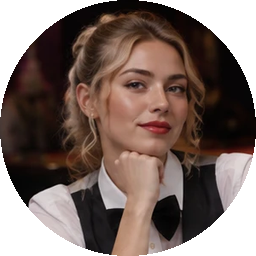
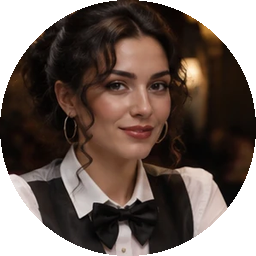
Dealer personalities, memory and reactions; table transitions
- Eight dealers with their own characters and lines (Victoria, Sofia, Marcus,
  Mei, Fiona, Viktor, Jamal, Kenji); they remember returning players
- Portrait body language: breathing, nods, celebrations on big wins
- Scenes fade in; tables settle in with a sit-down zoom

Claude-Session: https://claude.ai/code/session_01WpdBdNdrLvMEaYfdSwimFX

diff --git a/games/casino/src/ui/dealer.ts b/games/casino/src/ui/dealer.ts
@@ -1,6 +1,6 @@
 import Phaser from 'phaser';
 import { popIn } from '@tgs/kit';
-import { GOLD } from '../services.ts';
+import { GOLD, save } from '../services.ts';
 import { text } from './common.ts';
 
 export type DealerMood = 'hello' | 'bets' | 'win' | 'bigwin' | 'lose' | 'push' | 'special';
@@ -8,29 +8,137 @@ export type DealerMood = 'hello' | 'bets' | 'win' | 'bigwin' | 'lose' | 'push' |
 interface DealerInfo {
   key: string;
   name: string;
-  lines: Record<DealerMood, string[]>;
+  /** Who they are, shown under the name when you sit down. */
+  style: string;
+  lines: Record<DealerMood | 'back', string[]>;
 }
 
-const BASE: Record<DealerMood, string[]> = {
-  hello: ['Welcome to my table!', 'Good to see you!', 'Pull up a seat.'],
-  bets: ['Place your bets.', 'Bets, please.', 'Good luck this hand!'],
-  win: ['Nicely played!', 'Winner!', "That's a good one.", 'Paying you out.'],
-  bigwin: ['Wow, big winner!', 'The table is hot!', "Now that's a hand!"],
-  lose: ["Next one's yours.", 'So close.', 'Shake it off.', 'The cards will turn.'],
-  push: ['A push. Your bet stays.', 'Even this time.'],
-  special: ['Ooh!', 'Look at that!'],
-};
-
-/** Each game has its own dealer with a few personal lines. */
+/**
+ * Eight dealers, each with a personality: their own greetings, their own way of
+ * calling wins and losses, and a signature line for the big moments. `{n}` is
+ * the visit count, used by dealers who remember returning players.
+ */
 const DEALERS: Record<string, DealerInfo> = {
-  blackjack: { key: 'dealer-sofia', name: 'Sofia', lines: { ...BASE, special: ['Blackjack! Beautiful.', 'Twenty-one!'] } },
-  roulette: { key: 'dealer-marco', name: 'Marco', lines: { ...BASE, bets: ['Place your bets!', 'No more bets soon...'], special: ['Straight up! Lovely.'] } },
-  baccarat: { key: 'dealer-mei', name: 'Mei', lines: { ...BASE, special: ['A natural!', 'Banker is on a run.'] } },
-  threecard: { key: 'dealer-fiona', name: 'Fiona', lines: { ...BASE, special: ['Ante bonus for you!', 'Pair Plus pays!'] } },
-  war: { key: 'dealer-jamal', name: 'Jamal', lines: { ...BASE, special: ["It's war!", 'Brave move.'] } },
-  craps: { key: 'dealer-elena', name: 'Elena', lines: { ...BASE, bets: ['Shooter coming out!', 'Bets down, dice up.'], special: ['Winner, winner!', 'Seven out.'] } },
-  uth: { key: 'dealer-kenji', name: 'Kenji', lines: { ...BASE, special: ['Big blind bonus!', 'Trips pays!'] } },
-  holdem: { key: 'dealer-victor', name: 'Victor', lines: { ...BASE, bets: ['Shuffle up and deal.', 'Blinds are in.'], special: ['Ship it!', 'What a pot!'] } },
+  blackjack: {
+    key: 'dealer-victoria',
+    name: 'Victoria',
+    style: 'Elegant and exacting · runs the blackjack pit',
+    lines: {
+      hello: ['Good evening. Take a seat.', 'Welcome. The minimum is posted.', 'Shall we begin?'],
+      back: ['Back again. I admire persistence.', 'Ah, you returned. Visit {n}, I believe.'],
+      bets: ['Bets, please.', 'Place your wagers.', 'Whenever you are ready.'],
+      win: ['Well played.', 'Correctly done.', 'The house pays. This time.'],
+      bigwin: ['Impressive. Truly.', 'I will remember that hand.'],
+      lose: ['The house thanks you.', 'Unfortunate.', 'Discipline wins in the end.'],
+      push: ['A push. Nobody wins.', 'Even. How tidy.'],
+      special: ['Blackjack. Exquisite.', 'Twenty-one. Elegant.'],
+    },
+  },
+  roulette: {
+    key: 'dealer-sofia',
+    name: 'Sofia',
+    style: 'Playful and competitive · the face of the roulette room',
+    lines: {
+      hello: ['Ciao! Ready to spin?', 'Ooh, a new challenger!', 'Feeling lucky tonight?'],
+      back: ['You came back! Visit {n}, who is counting? Me.', 'My favourite player returns!'],
+      bets: ['Place your bets! I dare you.', 'Red or black? Choose wisely!', 'No more bets soon!'],
+      win: ['Hey! You beat my wheel!', 'Okay, okay, you win this one.', 'Lucky, lucky!'],
+      bigwin: ["You're on fire! Stop it!", 'Now you are showing off!'],
+      lose: ['The wheel likes me today!', 'Ha! Try again?', 'Almost! Spin it back?'],
+      push: ['Nobody wins? Boring!', 'A draw. Again!'],
+      special: ['Straight up! Bravissimo!', 'Right on the number!'],
+    },
+  },
+  holdem: {
+    key: 'dealer-marcus',
+    name: 'Marcus',
+    style: 'Friendly and energetic · remembers every regular',
+    lines: {
+      hello: ['Hey hey! Welcome to the poker room!', 'Great to have you, pull up a chair!'],
+      back: ['Welcome back, friend! Visit number {n}!', 'There they are! Good to see you again!'],
+      bets: ['Shuffle up and deal!', 'Blinds are in, here we go!', 'Cards in the air!'],
+      win: ['Ship it! Nice pot!', 'Way to go!', "That's how it's done!"],
+      bigwin: ['WHAT a hand! Unbelievable!', 'Somebody call the cameras!'],
+      lose: ['Shake it off, next hand!', "You'll get 'em next time!", 'Tough beat, buddy.'],
+      push: ['Split pot! Everybody eats!'],
+      special: ['What a pot!', 'Big hand, big hand!'],
+    },
+  },
+  baccarat: {
+    key: 'dealer-mei',
+    name: 'Mei',
+    style: 'Calm and gracious · the baccarat salon',
+    lines: {
+      hello: ['Welcome to the salon.', 'Please, be comfortable.', 'Good fortune tonight.'],
+      back: ['Welcome back. Visit {n}. The shoe remembers you.', 'A pleasure to see you again.'],
+      bets: ['Player, Banker, or Tie?', 'Your bets, please.', 'The shoe is ready.'],
+      win: ['Congratulations.', 'A graceful win.', 'Fortune smiles.'],
+      bigwin: ['A remarkable coup.', 'Wonderful. Truly.'],
+      lose: ['The next coup awaits.', 'Patience brings luck.', 'The tide turns.'],
+      push: ['A tie. Bets remain.'],
+      special: ['A natural.', 'Banker continues the run.'],
+    },
+  },
+  threecard: {
+    key: 'dealer-fiona',
+    name: 'Fiona',
+    style: 'Cheerful and cheeky · Three Card Poker',
+    lines: {
+      hello: ['Oh hi! Three cards, endless fun!', 'Welcome, sit, sit!'],
+      back: ['You again! Visit {n}! I knew you liked me.', 'Missed you!'],
+      bets: ['Ante up, love!', 'Pair Plus? Go on, live a little!'],
+      win: ['Yay! Nicely done!', 'Look at you!', 'Winner winner!'],
+      bigwin: ['Oh my goodness, what a hand!', 'Stop it, that is brilliant!'],
+      lose: ['Aww, next one!', 'Cheeky dealer wins!', 'Not your hand, love.'],
+      push: ['A tie! How polite of us.'],
+      special: ['Ante bonus! Lovely!', 'Pair Plus pays!'],
+    },
+  },
+  war: {
+    key: 'dealer-viktor',
+    name: 'Viktor',
+    style: 'Gruff and competitive · Casino War',
+    lines: {
+      hello: ['You want war? Sit.', 'Another challenger.'],
+      back: ['You came back for more. Visit {n}.', 'Ready to lose again?'],
+      bets: ['Bet. Then we fight.', 'Choose your stake.'],
+      win: ['Hm. You win this battle.', 'Respect.'],
+      bigwin: ['A victory worth remembering.', 'You fought well.'],
+      lose: ['Victory is mine.', 'War is cruel.', 'Again?'],
+      push: ['A standoff.'],
+      special: ['Then it is WAR!', 'Brave. Or foolish.'],
+    },
+  },
+  craps: {
+    key: 'dealer-jamal',
+    name: 'Jamal',
+    style: 'The hype man · runs the craps table',
+    lines: {
+      hello: ['Welcome to the loudest table in the house!', "Let's roll, let's ROLL!"],
+      back: ['My shooter is back! Visit {n}, baby!', 'There they are! Dice missed you!'],
+      bets: ['Shooter coming out!', 'Bets down, dice up!', 'Get those chips on the line!'],
+      win: ['WINNER WINNER!', "That's what I'm talking about!", 'Pay the line!'],
+      bigwin: ["THE TABLE IS ON FIRE!", 'Somebody stop this shooter!'],
+      lose: ['Ohhh, so close!', 'Shake it off, roll again!', 'Next shooter, next shooter!'],
+      push: ['Push it real good!'],
+      special: ['Winner, winner!', 'Seven out. Line away.'],
+    },
+  },
+  uth: {
+    key: 'dealer-kenji',
+    name: 'Kenji',
+    style: "Cool and analytical · Ultimate Texas Hold'em",
+    lines: {
+      hello: ['Welcome. The math is on your side, sometimes.', 'Good evening.'],
+      back: ['Visit {n}. Your game is improving.', 'Welcome back.'],
+      bets: ['Ante and blind, please.', 'Raise early with the strong hands.'],
+      win: ['Well calculated.', 'Correct decision.', 'Nicely read.'],
+      bigwin: ['Excellent. A textbook hand.', 'Optimal.'],
+      lose: ['Variance.', 'The odds were close.', 'Stay disciplined.'],
+      push: ['Equal hands. A push.'],
+      special: ['Blind bonus pays.', 'Trips pays.'],
+    },
+  },
 };
 
 /**
@@ -45,6 +153,10 @@ export class Dealer {
   private readonly y: number;
 
   private readonly left: boolean;
+  private portrait: Phaser.GameObjects.Image | null = null;
+  private ring: Phaser.GameObjects.Graphics | null = null;
+  /** How many times the player has sat at this dealer's table (counting this one). */
+  readonly visits: number;
 
   constructor(scene: Phaser.Scene, game: keyof typeof DEALERS, x = 110, y = 310, bubbleLeft = false) {
     this.scene = scene;
@@ -62,8 +174,19 @@ export class Dealer {
       ring.fillCircle(x + 3, y + 6, 80);
       ring.lineStyle(5, 0xe9c86a, 1);
       ring.strokeCircle(x, y, 76);
-      scene.add.image(x, y, this.info.key).setDisplaySize(148, 148).setDepth(21);
+      this.portrait = scene.add.image(x, y, this.info.key).setDisplaySize(148, 148).setDepth(21);
+      this.ring = ring;
+      // idle: a slow breath so the dealer feels present
+      const base = this.portrait.scale;
+      scene.tweens.add({ targets: this.portrait, scale: base * 1.025, duration: 2200, yoyo: true, repeat: -1, ease: 'Sine.easeInOut' });
     }
+    // dealers remember you
+    const visits = { ...(save.get().dealerVisits ?? {}) };
+    visits[this.info.key] = (visits[this.info.key] ?? 0) + 1;
+    this.visits = visits[this.info.key]!;
+    save.update((d) => {
+      d.dealerVisits = visits;
+    });
     const py = photo ? y + 92 : y;
     const plate = scene.add.graphics().setDepth(21);
     plate.fillStyle(0x0d0b10, 0.88);
@@ -74,9 +197,21 @@ export class Dealer {
     text(scene, x, py + 12, this.info.name, 28, '900', GOLD).setDepth(22);
   }
 
-  say(mood: DealerMood, line?: string): void {
+  /** Hello on a first visit; a returning player gets a personal welcome back. */
+  greet(): void {
+    if (this.visits > 1) this.say('back');
+    else {
+      this.say('hello');
+      // first time at this table: who the dealer is
+      const t = text(this.scene, this.left ? this.x - 92 : this.x + 92, this.y + 70, this.info.style, 22, '700', '#e9d6ee').setOrigin(this.left ? 1 : 0, 0.5).setDepth(23).setStroke('#000000', 4);
+      this.scene.tweens.add({ targets: t, alpha: 0, delay: 3800, duration: 600, onComplete: () => t.destroy() });
+    }
+  }
+
+  say(mood: DealerMood | 'back', line?: string): void {
     const pool = this.info.lines[mood];
-    const msg = line ?? pool[Math.floor(Math.random() * pool.length)]!;
+    const msg = (line ?? pool[Math.floor(Math.random() * pool.length)]!).replace('{n}', String(this.visits));
+    this.animate(mood);
     this.bubble?.destroy();
     const t = text(this.scene, 0, 0, msg, 28, '800', '#1a1020');
     const w = t.width + 40;
@@ -91,6 +226,34 @@ export class Dealer {
     this.bubble = c;
     popIn(this.scene, c);
     this.scene.tweens.add({ targets: c, alpha: 0, delay: 2600, duration: 400, onComplete: () => c.destroy() });
+  }
+
+  /** Body language: a nod when talking, a lift and a gold flash on big moments, a small droop on losses. */
+  private animate(mood: DealerMood | 'back'): void {
+    const p = this.portrait;
+    if (!p) return;
+    this.scene.tweens.killTweensOf(p);
+    const base = 148 / p.width;
+    p.setScale(base);
+    if (mood === 'bigwin' || mood === 'special') {
+      this.scene.tweens.add({ targets: p, scale: base * 1.12, y: this.y - 10, duration: 180, yoyo: true, repeat: 1, ease: 'Back.easeOut' });
+      const glow = this.scene.add.image(this.x, this.y, 'fx-glow').setDisplaySize(260, 260).setDepth(19).setBlendMode(Phaser.BlendModes.ADD);
+      this.scene.tweens.add({ targets: glow, alpha: 0, duration: 900, onComplete: () => glow.destroy() });
+      const e = this.scene.add.particles(this.x, this.y, 'fx-spark', { speed: { min: 80, max: 260 }, lifespan: 700, scale: { start: 0.7, end: 0 }, blendMode: 'ADD', emitting: false }).setDepth(24);
+      e.explode(14);
+      this.scene.time.delayedCall(800, () => e.destroy());
+    } else if (mood === 'lose') {
+      this.scene.tweens.add({ targets: p, angle: { from: -3, to: 3 }, duration: 120, yoyo: true, repeat: 1, onComplete: () => p.setAngle(0) });
+    } else {
+      this.scene.tweens.add({ targets: p, y: this.y - 6, duration: 140, yoyo: true, repeat: 1 });
+    }
+    this.ring?.setAlpha(1);
+    // back to breathing
+    this.scene.time.delayedCall(900, () => {
+      if (!p.active) return;
+      p.setPosition(this.x, this.y).setScale(base);
+      this.scene.tweens.add({ targets: p, scale: base * 1.025, duration: 2200, yoyo: true, repeat: -1, ease: 'Sine.easeInOut' });
+    });
   }
 
   /** React to a round's result. */

diff --git a/games/casino/src/scenes/HoldemScene.ts b/games/casino/src/scenes/HoldemScene.ts
@@ -91,6 +91,7 @@ export class HoldemScene extends Phaser.Scene {
   private thinking: Phaser.Tweens.Tween | null = null;
   private bottom = VH;
   private start: HoldemStart = {};
+  private dealer!: Dealer;
   private mtt: MttRun | null = null;
   private bg!: Phaser.GameObjects.Image;
 
@@ -119,7 +120,8 @@ export class HoldemScene extends Phaser.Scene {
     this.stepping = false;
     this.botCursor = Phaser.Math.Between(0, BOTS.length - 1);
     this.refresh = coinBar(this, "Hold'em", () => this.leave());
-    new Dealer(this, 'holdem', 110, 330);
+    this.dealer = new Dealer(this, 'holdem', 110, 330);
+    this.time.delayedCall(700, () => this.dealer.greet());
     this.handLabel = text(this, SEATS[0]!.x, 1268, '', 34, '700', BRASS_HEX).setDepth(30);
     (globalThis as Record<string, unknown>).__holdem = {
       state: () => ({ toAct: this.table?.toAct ?? -1, street: this.table?.street ?? 'none', hand: this.table?.handNumber ?? 0, stack: this.table?.seats[0]!.stack ?? 0 }),
@@ -823,6 +825,7 @@ export class HoldemScene extends Phaser.Scene {
       }
       this.refresh();
     }
+    if (humanWon > 0) this.time.delayedCall(showdown ? 1300 : 600, () => this.dealer.say(humanWon >= t.bb * 40 ? 'bigwin' : 'win'));
     if (humanWon > 0) {
       this.time.delayedCall(showdown ? 1200 : 500, () => audio.complete());
       haptics.fire('success');

diff --git a/games/casino/src/main.ts b/games/casino/src/main.ts
@@ -43,6 +43,21 @@ async function start(): Promise<void> {
     scene: [BootScene, LobbyScene, RoomScene, PokerLobbyScene, SlotsScene, BlackjackScene, HoldemScene, VideoPokerScene, RouletteScene, BaccaratScene, ThreeCardScene, WarScene, CrapsScene, UthScene],
   });
   void setupBackButton(game);
+  // moving between rooms and tables: every scene fades up from black, and the
+  // table games settle in with a gentle "sitting down" zoom
+  const TABLES = ['blackjack', 'roulette', 'baccarat', 'threecard', 'war', 'craps', 'uth', 'holdem', 'videopoker', 'slots'];
+  game.events.once('ready', () => {
+    for (const sc of game.scene.scenes) {
+      sc.events.on('create', () => {
+        const cam = sc.cameras.main;
+        cam.fadeIn(380, 8, 2, 12);
+        if (TABLES.includes(sc.scene.key)) {
+          cam.setZoom(1.07);
+          cam.zoomTo(1, 650, 'Cubic.easeOut');
+        }
+      });
+    }
+  });
   // test hook (dev builds only): jump straight to a scene
   if (import.meta.env.DEV) Object.assign(globalThis, { __go: (key: string, data?: object) => game.scene.getScenes(true)[0]?.scene.start(key, data), __scene: () => game.scene.getScenes(true)[0] });
 }

diff --git a/games/casino/src/scenes/ThreeCardScene.ts b/games/casino/src/scenes/ThreeCardScene.ts
@@ -46,7 +46,7 @@ export class ThreeCardScene extends Phaser.Scene {
     this.handText = text(this, VW / 2, PLAYER_Y + 150, '', 40, '900', '#ffe14a').setDepth(8).setStroke('#000000', 6);
     this.info = text(this, VW / 2, 1255, '', 28, '800', '#ffffff').setDepth(8);
     const dealer = new Dealer(this, 'threecard');
-    this.time.delayedCall(600, () => dealer.say('hello'));
+    this.time.delayedCall(600, () => dealer.greet());
     this.board = new BetBoard(this, SPOTS, () => this.updateInfo());
     // the Play spot only takes chips when you decide to play
     this.board.add = ((orig) => (id: string, amount?: number) => (id === 'play' ? audio.invalid() : orig(id, amount)))(this.board.add.bind(this.board));

diff --git a/games/casino/src/scenes/WarScene.ts b/games/casino/src/scenes/WarScene.ts
@@ -44,7 +44,7 @@ export class WarScene extends Phaser.Scene {
     text(this, VW / 2, PLAYER_Y + 170, 'YOU', 34, '900', '#e9c8ff', DISPLAY_FONT).setStroke('#000000', 6);
     this.info = text(this, VW / 2, 1255, '', 30, '800', '#ffffff').setDepth(8);
     const dealer = new Dealer(this, 'war');
-    this.time.delayedCall(600, () => dealer.say('hello'));
+    this.time.delayedCall(600, () => dealer.greet());
     this.board = new BetBoard(this, SPOTS, () => this.updateInfo());
     this.betting();
     (globalThis as Record<string, unknown>).__war = {

diff --git a/games/casino/src/scenes/BootScene.ts b/games/casino/src/scenes/BootScene.ts
@@ -5,7 +5,7 @@ import { applyAvatar } from '../ui/avatar.ts';
 import { THEME, analytics, applySettings } from '../services.ts';
 
 /** Dealer photos (art/dealers/<name>.png). */
-export const DEALER_PHOTOS = ['sofia', 'marco', 'mei', 'fiona', 'jamal', 'elena', 'kenji', 'victor'];
+export const DEALER_PHOTOS = ['victoria', 'sofia', 'marcus', 'mei', 'fiona', 'viktor', 'jamal', 'kenji'];
 
 /** Portraits players can pick for their profile. */
 export const PICK_AVATARS = ['pick-ace', 'pick-queen', 'pick-king', 'pick-jack', 'pick-luna', 'pick-duke'];

diff --git a/games/casino/src/scenes/BlackjackScene.ts b/games/casino/src/scenes/BlackjackScene.ts
@@ -51,7 +51,7 @@ export class BlackjackScene extends Phaser.Scene {
     backdrop(this, 'table-blackjack');
     this.refresh = coinBar(this, 'Blackjack', () => this.scene.start('room', { room: 'tables' }));
     this.dealer = new Dealer(this, 'blackjack');
-    this.time.delayedCall(600, () => this.dealer.say('hello'));
+    this.time.delayedCall(600, () => this.dealer.greet());
     this.betLayer = this.add.container(0, 0).setDepth(5);
     this.infoText = text(this, w / 2, BET_Y + 120, '', 34, '800', '#ffffff');
     this.bettingPhase();

diff --git a/games/casino/src/scenes/BaccaratScene.ts b/games/casino/src/scenes/BaccaratScene.ts
@@ -50,7 +50,7 @@ export class BaccaratScene extends Phaser.Scene {
     text(this, BX - 50, HAND_Y - 160, 'BANKER', 40, '900', '#ff8a9a', DISPLAY_FONT).setStroke('#000000', 6);
     this.info = text(this, VW / 2, 1290, '', 30, '800', '#ffffff').setDepth(8);
     const dealer = new Dealer(this, 'baccarat');
-    this.time.delayedCall(600, () => dealer.say('hello'));
+    this.time.delayedCall(600, () => dealer.greet());
     this.board = new BetBoard(this, SPOTS, () => this.updateInfo());
     this.drawRoad();
     this.betting();

diff --git a/games/casino/src/scenes/UthScene.ts b/games/casino/src/scenes/UthScene.ts
@@ -45,7 +45,7 @@ export class UthScene extends Phaser.Scene {
       if (!this.busy && !this.hand) this.scene.start('room', { room: 'tables' });
     });
     const dealer = new Dealer(this, 'uth');
-    this.time.delayedCall(600, () => dealer.say('hello'));
+    this.time.delayedCall(600, () => dealer.greet());
     this.sprites = { dealer: [], board: [], mine: [] };
     this.hand = null;
     this.busy = false;

diff --git a/games/casino/src/scenes/CrapsScene.ts b/games/casino/src/scenes/CrapsScene.ts
@@ -58,7 +58,7 @@ export class CrapsScene extends Phaser.Scene {
       if (!this.rolling) this.scene.start('room', { room: 'tables' });
     });
     this.dealer = new Dealer(this, 'craps', 110, 300);
-    this.time.delayedCall(600, () => this.dealer.say('hello'));
+    this.time.delayedCall(600, () => this.dealer.greet());
     this.rolling = false;
     this.dice = [];
     // printed layout

diff --git a/games/casino/src/scenes/RouletteScene.ts b/games/casino/src/scenes/RouletteScene.ts
@@ -52,7 +52,7 @@ export class RouletteScene extends Phaser.Scene {
     frame(this);
     backdrop(this, 'table-roulette');
     this.dealer = new Dealer(this, 'roulette', 975, 250, true);
-    this.time.delayedCall(800, () => this.dealer.say('hello'));
+    this.time.delayedCall(800, () => this.dealer.greet());
     this.bets = new Map();
     this.history = [];
     this.spots = [];

diff --git a/games/casino/src/services.ts b/games/casino/src/services.ts
@@ -35,6 +35,8 @@ export interface SaveData {
   avatar?: string;
   /** Display name at the tables. */
   name?: string;
+  /** Visits to each dealer's table (dealers remember regulars). */
+  dealerVisits?: Record<string, number>;
 }
 
 export interface Trophy {
